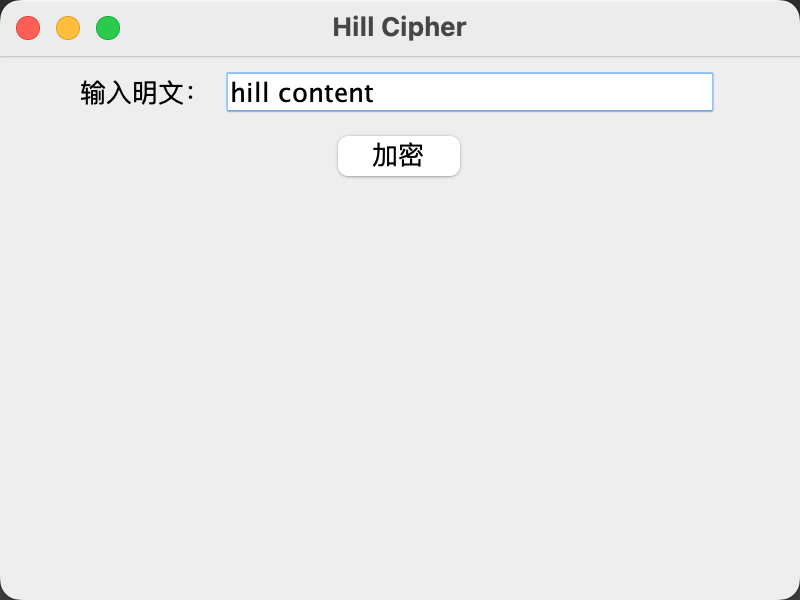
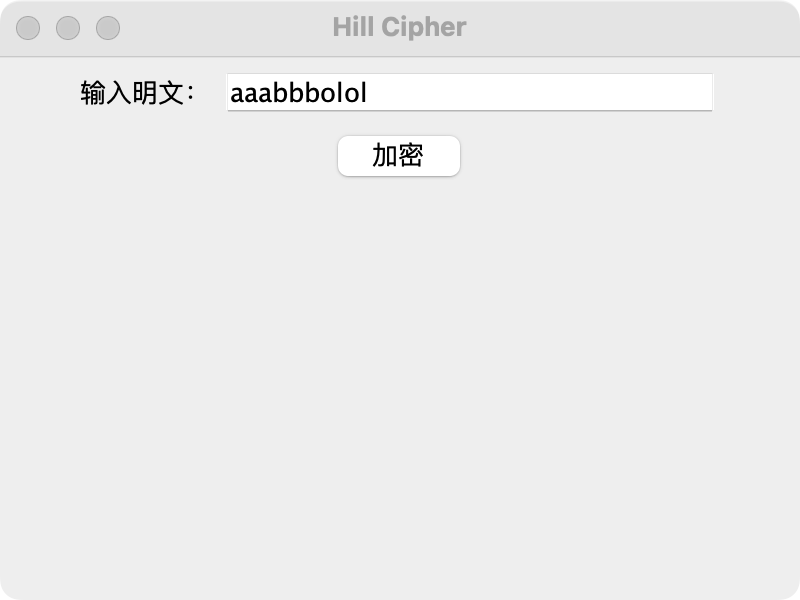
update md

diff --git a/readme.md b/readme.md
@@ -10,9 +10,17 @@ Caesar、Hill密码算法。
 
 解题结果：
 
+Hill：
+
 运行代码后，出现操作界面: 截图位置：picture/1.png
 
-在界面输入信息后，开始将源文件加密，产生加密结果：截图位置：picture/2.png
+在界面输入信息后，开始将源文件加密，产生加密结果、统计频率：截图位置：picture/2.png
+
+Caesar：
+
+运行代码后，出现操作界面: 截图位置：picture/3.png
+
+在界面输入信息后，开始将源文件加密，产生加密结果、统计频率：截图位置：picture/4.png
 
 ---
 
